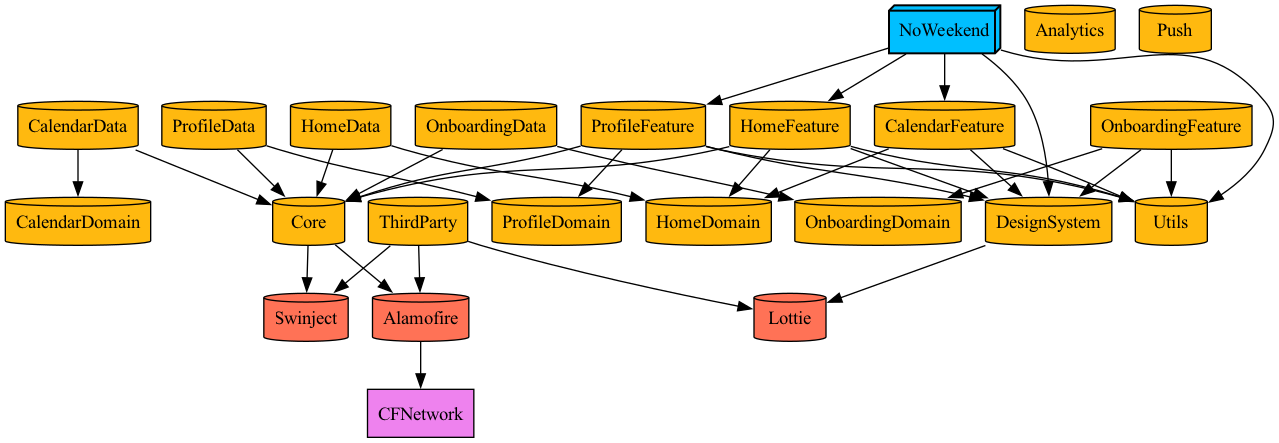
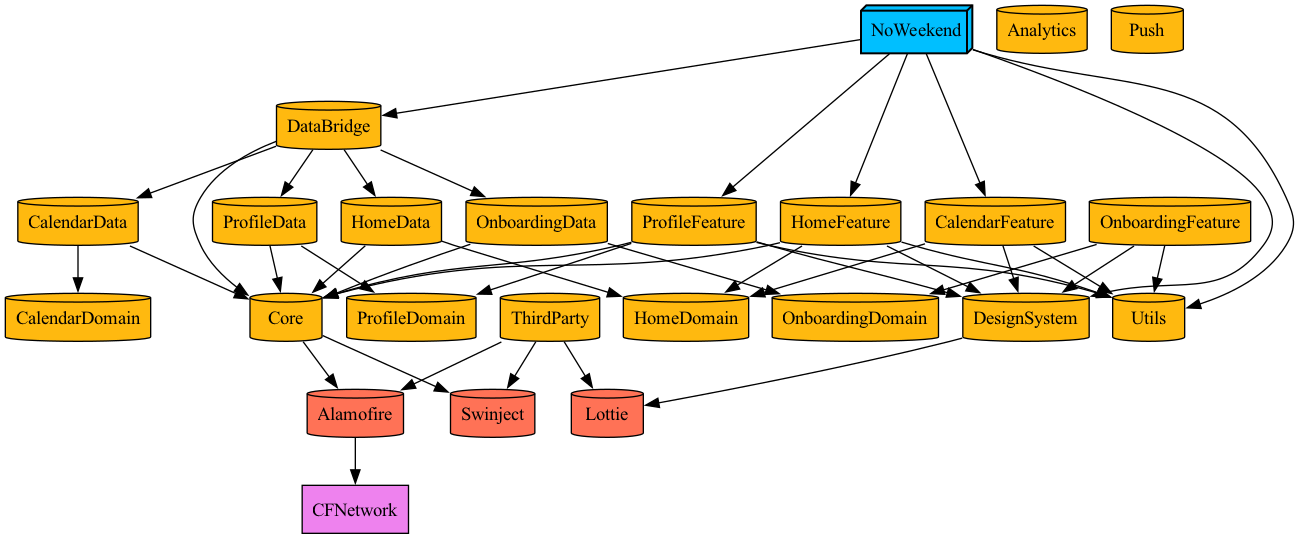
feat/#38 - 기타 코드 맞춰서 수정

diff --git a/Projects/Profile/ProfileFeature/Sources/ViewModel/ProfileViewModel.swift b/Projects/Profile/ProfileFeature/Sources/ViewModel/ProfileViewModel.swift
@@ -3,7 +3,6 @@
 //  ProfileFeature
 //
 //  Created by 이지훈 on 7/3/25.
-//  Copyright © 2025 com.noweekend. All rights reserved.
 //
 
 import Foundation
@@ -12,6 +11,7 @@ import Core
 import Combine
 
 public final class ProfileViewModel: ObservableObject {
+    @Dependency private var userUseCase: UserUseCaseProtocol
     @Published public var user: User?
     @Published public var isLoading: Bool = false
     @Published public var currentTheme: Theme = .system
@@ -19,12 +19,10 @@ public final class ProfileViewModel: ObservableObject {
     @Published public var language: String = "한국어"
     @Published public var errorMessage: String = ""
     
-    private let userUseCase: UserUseCaseProtocol
     private var cancellables = Set<AnyCancellable>()
     
     public init() {
-        self.userUseCase = DIContainer.shared.resolve(UserUseCaseProtocol.self)
-        print("👤 ProfileViewModel 생성 - DI Container 방식")
+        print("👤 ProfileViewModel 생성 - @Dependency 방식")
     }
     
     @MainActor
@@ -45,5 +43,4 @@ public final class ProfileViewModel: ObservableObject {
         }
         isLoading = false
     }
-    
 }

diff --git a/Projects/Onboarding/OnboardingFeature/Sources/Assembly/OnboardingFeatureAssembly.swift b/Projects/Onboarding/OnboardingFeature/Sources/Assembly/OnboardingFeatureAssembly.swift
@@ -1,0 +1,29 @@
+//
+//  OnboardingFeatureAssembly.swift
+//  OnboardingFeature
+//
+//  Created by 이지훈 on 7/3/25.
+//  Copyright © 2025 com.noweekend. All rights reserved.
+//
+
+import Foundation
+import Swinject
+import OnboardingDomain
+import Core
+
+public struct OnboardingFeatureAssembly: Assembly {
+    public init() {}
+    
+    public func assemble(container: Container) {
+        print("🚪 OnboardingFeatureAssembly 등록 시작")
+        
+        // UseCase만 등록 (Repository는 Data 모듈에서 등록됨)
+        container.register(OnboardingUseCaseProtocol.self) { resolver in
+            print("📋 OnboardingUseCase 생성 (Feature)")
+            let repository = resolver.resolve(OnboardingRepositoryProtocol.self)!
+            return OnboardingUseCase(onboardingRepository: repository)
+        }.inObjectScope(.graph)
+        
+        print("✅ OnboardingFeatureAssembly 등록 완료")
+    }
+}

diff --git a/Projects/Onboarding/OnboardingData/Sources/OnboardingAssembly.swift b/Projects/Onboarding/OnboardingData/Sources/OnboardingAssembly.swift
@@ -17,18 +17,11 @@ public struct OnboardingAssembly: Assembly {
     public func assemble(container: Container) {
         print("🚪 OnboardingAssembly 등록 시작")
         
-        // Repository 등록
+        // Repository만 등록 (UseCase는 Feature에서 등록)
         container.register(OnboardingRepositoryProtocol.self) { _ in
             print("📦 OnboardingRepository 생성")
             return OnboardingRepositoryImpl()
         }.inObjectScope(.container)
-        
-        // UseCase 등록
-        container.register(OnboardingUseCaseProtocol.self) { resolver in
-            print("📋 OnboardingUseCase 생성")
-            let repository = resolver.resolve(OnboardingRepositoryProtocol.self)!
-            return OnboardingUseCase(onboardingRepository: repository)
-        }.inObjectScope(.graph)
         
         print("✅ OnboardingAssembly 등록 완료")
     }

diff --git a/Projects/Profile/ProfileFeature/Sources/Assembly/ProfileFeatureAssembly.swift b/Projects/Profile/ProfileFeature/Sources/Assembly/ProfileFeatureAssembly.swift
@@ -1,0 +1,29 @@
+//
+//  ProfileFeatureAssembly.swift
+//  ProfileFeature
+//
+//  Created by 이지훈 on 7/3/25.
+//  Copyright © 2025 com.noweekend. All rights reserved.
+//
+
+import Foundation
+import Swinject
+import ProfileDomain
+import Core
+
+public struct ProfileFeatureAssembly: Assembly {
+    public init() {}
+    
+    public func assemble(container: Container) {
+        print("👤 ProfileFeatureAssembly 등록 시작")
+        
+        // UseCase만 등록 (Repository는 Data 모듈에서 등록됨)
+        container.register(UserUseCaseProtocol.self) { resolver in
+            print("📋 UserUseCase 생성 (Feature)")
+            let repository = resolver.resolve(UserRepositoryProtocol.self)!
+            return UserUseCase(userRepository: repository)
+        }.inObjectScope(.graph)
+        
+        print("✅ ProfileFeatureAssembly 등록 완료")
+    }
+}

diff --git a/Projects/Home/HomeData/Sources/HomeAssembly.swift b/Projects/Home/HomeData/Sources/HomeAssembly.swift
@@ -17,18 +17,11 @@ public struct HomeAssembly: Assembly {
     public func assemble(container: Container) {
         print("🏠 HomeAssembly 등록 시작")
         
-        // Repository 등록
+        // Repository만 등록 (UseCase는 Feature에서 등록)
         container.register(EventRepositoryProtocol.self) { _ in
             print("📦 EventRepository 생성")
             return EventRepositoryImpl()
         }.inObjectScope(.container)
-        
-        // UseCase 등록 (Feature Layer의 UseCase 구현체)
-        container.register(EventUseCaseProtocol.self) { resolver in
-            print("📋 EventUseCase 생성")
-            let repository = resolver.resolve(EventRepositoryProtocol.self)!
-            return EventUseCase(eventRepository: repository)
-        }.inObjectScope(.graph)
         
         print("✅ HomeAssembly 등록 완료")
     }

diff --git a/Projects/Home/HomeFeature/Sources/ViewModel/HomeViewModel.swift b/Projects/Home/HomeFeature/Sources/ViewModel/HomeViewModel.swift
@@ -3,7 +3,6 @@
 //  HomeFeature
 //
 //  Created by 이지훈 on 7/3/25.
-//  Copyright © 2025 com.noweekend. All rights reserved.
 //
 
 import Foundation
@@ -12,16 +11,15 @@ import Core
 import Combine
 
 public final class HomeViewModel: ObservableObject {
+    @Dependency private var eventUseCase: EventUseCaseProtocol
     @Published public var events: [Event] = []
     @Published public var isLoading: Bool = false
     @Published public var errorMessage: String = ""
     
-    private let eventUseCase: EventUseCaseProtocol
     private var cancellables = Set<AnyCancellable>()
     
     public init() {
-        self.eventUseCase = DIContainer.shared.resolve(EventUseCaseProtocol.self)
-        print("🏠 HomeViewModel 생성 - DI Container 방식")
+        print("🏠 HomeViewModel 생성 - @Dependency 방식")
     }
     
     var todayEvents: [Event] {

diff --git a/Projects/Profile/ProfileData/Sources/ProfileAssembly.swift b/Projects/Profile/ProfileData/Sources/ProfileAssembly.swift
@@ -17,18 +17,11 @@ public struct ProfileAssembly: Assembly {
     public func assemble(container: Container) {
         print("👤 ProfileAssembly 등록 시작")
         
-        // Repository 등록
+        // Repository만 등록 (UseCase는 Feature에서 등록)
         container.register(UserRepositoryProtocol.self) { _ in
             print("📦 UserRepository 생성")
             return UserRepositoryImpl()
         }.inObjectScope(.container)
-        
-        // UseCase 등록
-        container.register(UserUseCaseProtocol.self) { resolver in
-            print("📋 UserUseCase 생성")
-            let repository = resolver.resolve(UserRepositoryProtocol.self)!
-            return UserUseCase(userRepository: repository)
-        }.inObjectScope(.graph)
         
         print("✅ ProfileAssembly 등록 완료")
     }

diff --git a/Projects/Home/HomeFeature/Sources/Assembly/HomeFeatureAssembly.swift b/Projects/Home/HomeFeature/Sources/Assembly/HomeFeatureAssembly.swift
@@ -1,0 +1,28 @@
+//
+//  HomeFeatureAssembly.swift
+//  HomeFeature
+//
+//  Created by 이지훈 on 7/3/25.
+//
+
+import Foundation
+import Swinject
+import HomeDomain
+import Core
+
+public struct HomeFeatureAssembly: Assembly {
+    public init() {}
+    
+    public func assemble(container: Container) {
+        print("🏠 HomeFeatureAssembly 등록 시작")
+        
+        // UseCase만 등록 (Repository는 Data 모듈에서 등록됨)
+        container.register(EventUseCaseProtocol.self) { resolver in
+            print("📋 EventUseCase 생성 (Feature)")
+            let repository = resolver.resolve(EventRepositoryProtocol.self)!
+            return EventUseCase(eventRepository: repository)
+        }.inObjectScope(.graph)
+        
+        print("✅ HomeFeatureAssembly 등록 완료")
+    }
+}

diff --git a/Projects/Onboarding/OnboardingData/Sources/OnboardingRepositoryImpl.swift b/Projects/Onboarding/OnboardingData/Sources/OnboardingRepositoryImpl.swift
@@ -76,15 +76,3 @@ public final class OnboardingRepositoryImpl: OnboardingRepositoryProtocol {
         return isCompleted
     }
 }
-
-// MARK: - OnboardingData Module Configuration
-public enum OnboardingDataModule {
-    public static func configure() {
-        print("🚪 OnboardingData 모듈 설정 시작")
-        
-        let assembly = OnboardingAssembly()
-        DIContainer.shared.registerAssembly(assembly: [assembly])
-        
-        print("✅ OnboardingData 모듈 설정 완료")
-    }
-}

diff --git a/Projects/Home/HomeData/Sources/EventRepositoryImpl.swift b/Projects/Home/HomeData/Sources/EventRepositoryImpl.swift
@@ -51,15 +51,3 @@ public final class EventRepositoryImpl: EventRepositoryProtocol {
         print("✅ 이벤트 삭제 완료")
     }
 }
-
-// MARK: - HomeData Module Configuration
-public enum HomeDataModule {
-    public static func configure() {
-        print("🏠 HomeData 모듈 설정 시작")
-        
-        let assembly = HomeAssembly()
-        DIContainer.shared.registerAssembly(assembly: [assembly])
-        
-        print("✅ HomeData 모듈 설정 완료")
-    }
-}

diff --git a/Projects/Profile/ProfileData/Sources/UserRepositoryImpl.swift b/Projects/Profile/ProfileData/Sources/UserRepositoryImpl.swift
@@ -71,15 +71,3 @@ enum UserError: Error, LocalizedError {
         }
     }
 }
-
-// MARK: - ProfileData Module Configuration
-public enum ProfileDataModule {
-    public static func configure() {
-        print("👤 ProfileData 모듈 설정 시작")
-        
-        let assembly = ProfileAssembly()
-        DIContainer.shared.registerAssembly(assembly: [assembly])
-        
-        print("✅ ProfileData 모듈 설정 완료")
-    }
-}

diff --git a/Projects/Onboarding/OnboardingData/Sources/OnboardingDataModule.swift b/Projects/Onboarding/OnboardingData/Sources/OnboardingDataModule.swift
@@ -1,0 +1,19 @@
+//
+//  OnboardingDataModule.swift
+//  OnboardingData
+//
+//  Created by 이지훈 on 7/3/25.
+//
+
+import Foundation
+import Core
+
+public enum OnboardingDataModule {
+    @AutoRegisterData
+    static var assembly = OnboardingAssembly()
+    
+    public static func configure() {
+        print("🚪 OnboardingDataModule 활성화")
+        _ = assembly // PropertyWrapper 활성화
+    }
+}
